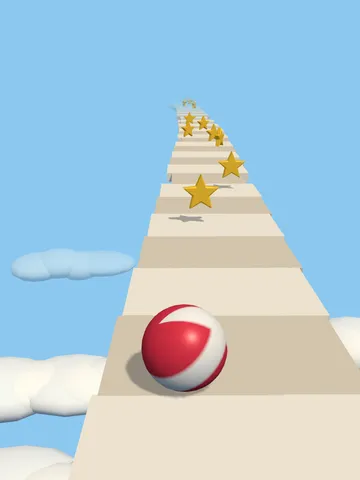
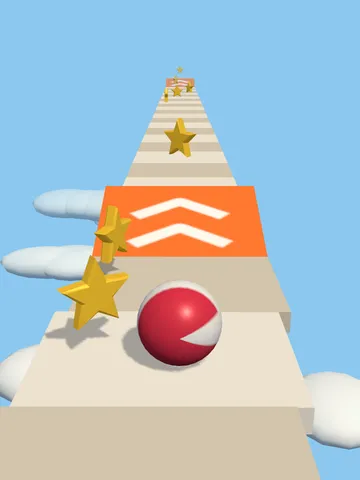
Pallorata: ramps that throw the ball over gaps, more tests (#102)
Orange ramps with arrows now and then lift the ball and throw it over a
gap of one or two rows, with a star in the air above the gap. Tests for
the jump, a gap without a jump, steering only while rolling, and a
390 px phone.

Refs #102

diff --git a/games/pallorata/v1/index.html b/games/pallorata/v1/index.html
@@ -32,7 +32,7 @@
 <div id="hud" class="hidden"><span class="chip" id="tahdet">⭐ 0</span><span class="chip" id="matka">0 m</span></div>
 <div class="screen" id="menu">
   <h1>Pallorata</h1>
-  <p>Vedä sormella vasemmalle ja oikealle, pysy radalla ja kerää tähtiä.</p>
+  <p>Vedä sormella vasemmalle ja oikealle, pysy radalla ja kerää tähtiä. Hyppyristä pallo lentää aukon yli.</p>
   <p id="paras"></p>
   <button class="go" id="aloita">Aloita</button>
 </div>
@@ -52,6 +52,8 @@ const ROW = 2;            // track row length along the run
 const R = 0.45;           // ball radius
 const AHEAD = 45;         // rows kept in front of the ball
 const BEHIND = 6;         // rows kept behind it
+const H = 0.7;            // how high a ramp's end is
+const G = 22;             // gravity
 const $ = id => document.getElementById(id);
 
 const c = $('c');
@@ -101,6 +103,16 @@ if (renderer) {
   const boxGeo = new THREE.BoxGeometry(1, 1, 1);
   const rowMats = [0xf4efe6, 0xd9cfbf].map(color => new THREE.MeshStandardMaterial({ color, roughness: 0.8 }));
   const edgeMat = new THREE.MeshStandardMaterial({ color: 0x3f8f6b, roughness: 0.7 });
+  // The ramp: orange with white arrows pointing up it, so it reads as a jump from afar.
+  const arrows = document.createElement('canvas');
+  arrows.width = 64; arrows.height = 64;
+  const ag = arrows.getContext('2d');
+  ag.fillStyle = '#ff7a2f'; ag.fillRect(0, 0, 64, 64);
+  ag.strokeStyle = '#fff'; ag.lineWidth = 7; ag.lineJoin = 'round';
+  for (const y of [16, 40]) { ag.beginPath(); ag.moveTo(14, y + 14); ag.lineTo(32, y); ag.lineTo(50, y + 14); ag.stroke(); }
+  const arrowTex = new THREE.CanvasTexture(arrows);
+  arrowTex.colorSpace = THREE.SRGBColorSpace;
+  const rampMat = new THREE.MeshStandardMaterial({ map: arrowTex, roughness: 0.6 });
   const rowPool = [];
   for (let i = 0; i < AHEAD + BEHIND + 2; i++) {
     const top = new THREE.Mesh(boxGeo, rowMats[0]);
@@ -139,12 +151,22 @@ if (renderer) {
 
   // --- Track ---------------------------------------------------------------------------------
   // rows[i] covers the run from i*ROW to (i+1)*ROW: its middle is at x = cx, it is w wide.
-  let rows, stars, seed;
+  // A ramp row is followed by a gap of one or two rows, then a straight, wide landing.
+  let rows, stars, seed, plan, lastRamp;
   function rnd() { seed = (seed * 16807) % 2147483647; return (seed - 1) / 2147483646; }
 
   function makeRow(i) {
     if (i < 10) return { cx: 0, w: 3.2 };
     const p = rows[i - 1];
+    if (!plan.length && i - lastRamp > 18 && rnd() < 0.08) {
+      lastRamp = i;
+      plan = ['ramp', 'gap', ...(i > 150 ? ['gap'] : []), 'land', 'land', 'land', 'land', 'land', 'land'];
+    }
+    if (plan.length) {
+      const kind = plan.shift();
+      if (kind === 'gap') addStar(p.cx, 1.5, i);
+      return { kind, cx: p.cx, w: Math.max(p.w, 2.6), drift: 0 };
+    }
     // Narrower and twistier the further the ball has come.
     const hard = Math.min(1, i / 400);
     const w = Math.max(1.3, 3 - hard * 1.5 + (rnd() < 0.15 ? -0.5 : 0));
@@ -153,15 +175,16 @@ if (renderer) {
     let cx = p.cx + drift;
     if (Math.abs(cx) > 6) { drift = -drift; cx = p.cx + drift; }
     const row = { cx, w, drift };
-    if (rnd() < 0.28) {
-      const star = new THREE.Mesh(starGeo, starMat);
-      star.castShadow = true;
-      star.rotation.y = rnd() * Math.PI;
-      star.position.set(cx + (rnd() - 0.5) * (w - 0.6), 0.75, -(i + 0.5) * ROW);
-      scene.add(star);
-      stars.push(star);
-    }
+    if (rnd() < 0.28) addStar(cx + (rnd() - 0.5) * (w - 0.6), 0.75, i);
     return row;
+  }
+  function addStar(x, y, i) {
+    const star = new THREE.Mesh(starGeo, starMat);
+    star.castShadow = true;
+    star.rotation.y = rnd() * Math.PI;
+    star.position.set(x, y, -(i + 0.5) * ROW);
+    scene.add(star);
+    stars.push(star);
   }
   function row(i) {
     if (i < 0) return { cx: 0, w: 3.2 };
@@ -177,19 +200,28 @@ if (renderer) {
     for (let i = first; i <= last; i++) {
       if (rowPool.some(r => r.used === i)) continue;
       const r = rowPool.find(r => r.used === null);
-      const { cx, w } = row(i);
+      const { cx, w, kind } = row(i);
       r.used = i;
-      r.top.visible = r.base.visible = true;
-      r.top.material = rowMats[Math.abs(i) % 2];
-      r.top.scale.set(w, 0.3, ROW + 0.02);
-      r.top.position.set(cx, -0.15, -(i + 0.5) * ROW);
+      r.top.visible = r.base.visible = kind !== 'gap';
+      r.top.material = kind === 'ramp' ? rampMat : rowMats[Math.abs(i) % 2];
+      if (kind === 'ramp') {
+        // A board tilted up towards the run's direction, its top rising from 0 to H.
+        const a = Math.atan2(H, ROW);
+        r.top.rotation.x = a;
+        r.top.scale.set(w, 0.3, Math.hypot(ROW, H) + 0.02);
+        r.top.position.set(cx, H / 2 - 0.15 * Math.cos(a), -(i + 0.5) * ROW - 0.15 * Math.sin(a));
+      } else {
+        r.top.rotation.x = 0;
+        r.top.scale.set(w, 0.3, ROW + 0.02);
+        r.top.position.set(cx, -0.15, -(i + 0.5) * ROW);
+      }
       r.base.scale.set(w * 0.8, 0.5, ROW + 0.02);
       r.base.position.set(cx, -0.55, -(i + 0.5) * ROW);
     }
   }
 
   // --- Round ---------------------------------------------------------------------------------
-  const ball = { x: 0, y: R, z: 0, vy: 0, v: 0, aimX: 0 };
+  const ball = { x: 0, y: R, z: 0, vy: 0, v: 0, aimX: 0, air: false, ramp: false };
   const round = { phase: 'menu', stars: 0, fallT: 0, t: 0 };
 
   function best() { return +(localStorage.getItem(KEY + 'ennatys') || 0); }
@@ -199,8 +231,8 @@ if (renderer) {
   function reset() {
     for (const s of stars || []) scene.remove(s);
     rowPool.forEach(free);
-    rows = []; stars = []; seed = (Date.now() % 2147483646) + 1;
-    Object.assign(ball, { x: 0, y: R, z: 0, vy: 0, v: 6, aimX: 0 });
+    rows = []; stars = []; plan = []; lastRamp = 10; seed = (Date.now() % 2147483646) + 1;
+    Object.assign(ball, { x: 0, y: R, z: 0, vy: 0, v: 6, aimX: 0, air: false, ramp: false });
     Object.assign(round, { stars: 0, fallT: 0, t: 0 });
     ballMesh.quaternion.identity();
     placeRows(-BEHIND, AHEAD);
@@ -238,9 +270,34 @@ if (renderer) {
     $('paras').textContent = b ? `Ennätys: ${b} pistettä` : '';
   }
 
-  function onTrack() {
-    const r = row(Math.floor(-ball.z / ROW));
-    return Math.abs(ball.x - r.cx) <= r.w / 2;
+  // Rolling on the track, jumping off a ramp, landing, or dropping off the edge.
+  function bounce(dt) {
+    const i = Math.floor(-ball.z / ROW), r = row(i);
+    const solid = r.kind !== 'gap' && Math.abs(ball.x - r.cx) <= r.w / 2;
+    const ground = r.kind === 'ramp' ? H * (-ball.z / ROW - i) : 0;
+    if (!ball.air) {
+      if (ball.ramp && r.kind !== 'ramp') {
+        ball.air = true;
+        ball.vy = ball.v * H / ROW + 3;
+        sound('jump');
+      } else if (!solid) {
+        ball.air = true;
+        ball.vy = 0;
+      } else {
+        ball.y = R + ground;
+      }
+      ball.ramp = !ball.air && r.kind === 'ramp';
+    }
+    if (ball.air) {
+      const was = ball.y;
+      ball.vy -= G * dt;
+      ball.y += ball.vy * dt;
+      if (solid && ball.vy <= 0 && ball.y <= R + ground && was >= R + ground - 0.05) {
+        Object.assign(ball, { y: R + ground, vy: 0, air: false, ramp: r.kind === 'ramp' });
+      } else if (ball.y < R - 0.3) {
+        round.phase = 'fall'; round.fallT = 0; sound('fall');
+      }
+    }
   }
 
   const spinAxis = new THREE.Vector3(), spinQ = new THREE.Quaternion();
@@ -260,9 +317,10 @@ if (renderer) {
       }
     }
     if (round.phase === 'run') {
-      if (!onTrack()) { round.phase = 'fall'; round.fallT = 0; sound('fall'); }
+      bounce(dt);
       for (const s of stars) {
-        if (s.visible && Math.abs(s.position.z - ball.z) < 0.7 && Math.abs(s.position.x - ball.x) < 0.75) {
+        if (s.visible && Math.abs(s.position.z - ball.z) < 0.7 && Math.abs(s.position.x - ball.x) < 0.75
+          && Math.abs(s.position.y - ball.y) < 0.8) {
           s.visible = false;
           round.stars++;
           sound('star');
@@ -272,7 +330,7 @@ if (renderer) {
       stars = stars.filter(s => (s.position.z < ball.z + 10) || (scene.remove(s), false));
       hud();
     } else if (round.phase === 'fall') {
-      ball.vy -= 22 * dt;
+      ball.vy -= G * dt;
       ball.y += ball.vy * dt;
       round.fallT += dt;
       if (round.fallT > 1.3) over();
@@ -292,9 +350,10 @@ if (renderer) {
     }
     ballMesh.position.set(ball.x, ball.y, ball.z);
     camX += (ball.x - camX) * Math.min(1, dt * 4);
-    const cy = Math.max(ball.y, -3);
+    // In a jump the camera rises only part of the way, so the jump shows.
+    const cy = ball.y > R ? R + (ball.y - R) * 0.6 : Math.max(ball.y, -3);
     camera.position.set(camX, cy + 2.7, ball.z + 5.2);
-    look.set(camX + (ball.x - camX) * 0.5, Math.max(ball.y, -6), ball.z - 4);
+    look.set(camX + (ball.x - camX) * 0.5, Math.max(cy - R, -6), ball.z - 4);
     camera.lookAt(look);
     sun.position.set(ball.x + 4, 10, ball.z + 3);
     sun.target.position.set(ball.x, 0, ball.z - 4);
@@ -344,6 +403,11 @@ if (renderer) {
       o.frequency.setValueAtTime(880, t); o.frequency.setValueAtTime(1320, t + 0.07);
       g.gain.setValueAtTime(0.18, t); g.gain.exponentialRampToValueAtTime(0.001, t + 0.22);
       o.start(t); o.stop(t + 0.24);
+    } else if (kind === 'jump') {
+      o.type = 'square';
+      o.frequency.setValueAtTime(220, t); o.frequency.exponentialRampToValueAtTime(660, t + 0.25);
+      g.gain.setValueAtTime(0.07, t); g.gain.exponentialRampToValueAtTime(0.001, t + 0.3);
+      o.start(t); o.stop(t + 0.32);
     } else {
       o.type = 'sine';
       o.frequency.setValueAtTime(500, t); o.frequency.exponentialRampToValueAtTime(90, t + 0.9);

diff --git a/tests/test_pallorata.py b/tests/test_pallorata.py
@@ -70,3 +70,49 @@ def test_rolling_off_the_track_ends_the_round_and_saves_the_record(site, context
     page.click("#uudestaan")
     page.wait_for_function("round.phase === 'run' && round.stars === 0 && ball.z > -2", timeout=2000)
     assert not page.is_visible("#loppu")
+
+
+def test_a_drag_steers_only_while_the_ball_is_on_the_track(site, context):
+    page, _ = open_game(site, context)
+    page.evaluate("steer(200)")
+    assert page.evaluate("ball.aimX") == 0
+    page.click("#aloita")
+    page.wait_for_function("round.phase === 'run'", timeout=2000)
+    page.evaluate("ball.aimX = 5")
+    page.wait_for_function("round.phase === 'fall'", timeout=2000)
+    page.evaluate("steer(-400)")
+    assert page.evaluate("ball.aimX") == 5
+
+
+def test_it_plays_on_a_390_px_phone(site, browser):
+    ctx = browser.new_context(viewport={"width": 390, "height": 844}, is_mobile=True, has_touch=True)
+    try:
+        page, errors = start(site, ctx)
+        page.wait_for_function("-ball.z > 4 && innerWidth === 390", timeout=5000)
+        box = page.locator("#hud").bounding_box()
+        assert box["x"] >= 0 and box["x"] + box["width"] <= 390
+        assert errors == []
+    finally:
+        ctx.close()
+
+
+FIRST_RAMP = "(() => { for (let i = 10; i < 3000; i++) if (row(i).kind === 'ramp') return i; })()"
+
+
+def test_a_ramp_throws_the_ball_over_the_gap(site, context):
+    page, _ = start(site, context)
+    ramp = page.evaluate(FIRST_RAMP)
+    gaps = page.evaluate(f"[1, 2].filter(n => row({ramp} + n).kind === 'gap').length")
+    assert gaps >= 1
+    page.evaluate(f"ball.z = -{ramp} * 2 + 1; ball.x = ball.aimX = row({ramp}).cx")
+    page.wait_for_function("ball.air && ball.y > 1.2", timeout=3000)
+    landing = (ramp + gaps + 2) * 2
+    page.wait_for_function(f"-ball.z > {landing} && !ball.air", timeout=5000)
+    assert page.evaluate("round.phase") == "run"
+
+
+def test_rolling_into_a_gap_without_a_jump_drops_the_ball(site, context):
+    page, _ = start(site, context)
+    ramp = page.evaluate(FIRST_RAMP)
+    page.evaluate(f"ball.z = -({ramp} + 1.1) * 2; ball.x = ball.aimX = row({ramp}).cx; ball.ramp = false")
+    page.wait_for_function("round.phase === 'fall'", timeout=2000)

diff --git a/docs/diagrams/pallorata.md b/docs/diagrams/pallorata.md
@@ -2,19 +2,24 @@
 
 How one round of Pallorata plays (v1, #102). A striped ball rolls along a narrow track of
 tiles high above the clouds, drawn in 3D with the shared three.js. The player drags a finger
-left and right to keep it on the track and roll it over stars; the round ends when the ball
-rolls off the edge and falls.
+left and right to keep it on the track and roll it over stars; orange ramps throw it over gaps
+in the track. The round ends when the ball rolls off the edge or into a gap and falls.
 
 ```mermaid
 flowchart TD
   A[Valikko: pallo vierii lähtösuoralla, Aloita] --> B[Pallo vierii eteenpäin, vauhti kasvaa]
   B --> C[Vedä sormella: pallo liukuu sivulle]
   C --> D{Onko pallo radan päällä?}
-  D -- Kyllä --> E{Tähti kohdalla?}
+  D -- Kyllä --> M{Hyppyri loppuu?}
+  M -- Kyllä --> N[Pallo lentää aukon yli, tähti ilmassa]
+  N --> O{Laskeutuuko radalle?}
+  O -- Kyllä --> E
+  O -- Ei --> G
+  M -- Ei --> E{Tähti kohdalla?}
   E -- Kyllä --> F[Tähti kerätty, kilahdus]
   E -- Ei --> B
   F --> B
-  D -- Ei --> G[Pallo putoaa pilviin]
+  D -- Ei, reunan yli tai aukkoon --> G[Pallo putoaa pilviin]
   G --> H[Putosit!: metrit + 10 × tähdet = pisteet]
   H --> I{Parempi kuin ennätys?}
   I -- Kyllä --> J[Uusi ennätys talteen]
@@ -22,9 +27,10 @@ flowchart TD
   J --> L[Uudestaan]
   K --> L
   L --> B
-  R[Rata syntyy edessä: kapenee ja mutkittelee matkan mittaan] --> D
+  R[Rata syntyy edessä: kapenee, mutkittelee, välillä hyppyri ja aukko] --> D
   class A,B,C blue
-  class D,E,I amber
+  class D,E,I,M,O amber
+  class N teal
   class F,J green
   class G,H rose
   class K,L blue
@@ -37,15 +43,18 @@ flowchart TD
 - **amber**: a check that decides the path
 - **green**: a star or a record won
 - **rose**: the fall that ends the round
-- **teal**: how the track is made
+- **teal**: how the track is made, and the jump
 
 ## Boxes
 
 - **Valikko: pallo vierii lähtösuoralla, Aloita**: `games/pallorata/v1/index.html`; the animation loop rolls the ball slowly on the start straight behind the menu (`#menu`), which shows the record (`ai-pelit:pallorata:ennatys`). "Aloita" calls `start()`, which also unlocks the sounds.
 - **Pallo vierii eteenpäin, vauhti kasvaa**: `step()`: the speed starts at 6 and grows 0.12 per second up to 15 track units a second; the ball turns about the axis across its path, so the stripes roll. The camera follows behind and above the ball (`draw()`), and the sun light and its shadow box move with it.
 - **Vedä sormella: pallo liukuu sivulle**: the canvas's pointer events call `steer()`: a drag across the screen moves the ball's aim (`ball.aimX`) about six units sideways, and the ball eases towards it.
-- **Onko pallo radan päällä?**: `onTrack()`: the ball's middle must be over the row it is on (`row(i)`, its middle `cx` and width `w`).
-- **Rata syntyy edessä: kapenee ja mutkittelee matkan mittaan**: `makeRow()`: the first ten rows are a wide straight start; after that each row may turn the drift sideways, and rows get narrower from 3 to 1.5 units over 400 rows, with a narrower row now and then. About one row in four gets a star. `placeRows()` reuses one pool of tile meshes for the rows just behind and 45 ahead of the ball.
+- **Onko pallo radan päällä?**: `bounce()`: the ball's middle must be over the row it is on (`row(i)`, its middle `cx` and width `w`), and that row must not be a gap. Off it, the ball starts to drop; once it is 0.3 below the track top, the round is lost.
+- **Hyppyri loppuu?**: a ramp row (`kind: 'ramp'`, orange with white arrows) lifts the ball from 0 to `H` (0.7) along its length; when the ball rolls past its end, `bounce()` throws it up at its speed's share of the slope plus 3.
+- **Pallo lentää aukon yli, tähti ilmassa**: in the air the ball falls under `G` and can still be steered. Each gap row holds a star 1.5 up, which only a jump can reach.
+- **Laskeutuuko radalle?**: `bounce()` lands the ball when it comes down onto a solid row; the six rows after a gap are straight and at least 2.6 wide, so a jump at any speed lands on them.
+- **Rata syntyy edessä: kapenee, mutkittelee, välillä hyppyri ja aukko**: `makeRow()`: the first ten rows are a wide straight start; after that each row may turn the drift sideways, and rows get narrower from 3 to 1.5 units over 400 rows, with a narrower row now and then. About one row in four gets a star. At least 18 rows apart, a ramp may start a planned run (`plan`): ramp, one gap (two after row 150), then six landing rows. `placeRows()` reuses one pool of tile meshes for the rows just behind and 45 ahead of the ball.
 - **Tähti kohdalla?**: `step()` checks every star close to the ball's position; a collected star is hidden and counted in the top-right chip.
 - **Pallo putoaa pilviin**: off the track the ball keeps rolling forward and falls under gravity; after 1.3 s `over()` ends the round.
 - **Putosit!: metrit + 10 × tähdet = pisteet**: `over()` shows the distance, the stars and the points, and counts the round in `ai-pelit:pallorata:pelit`.
